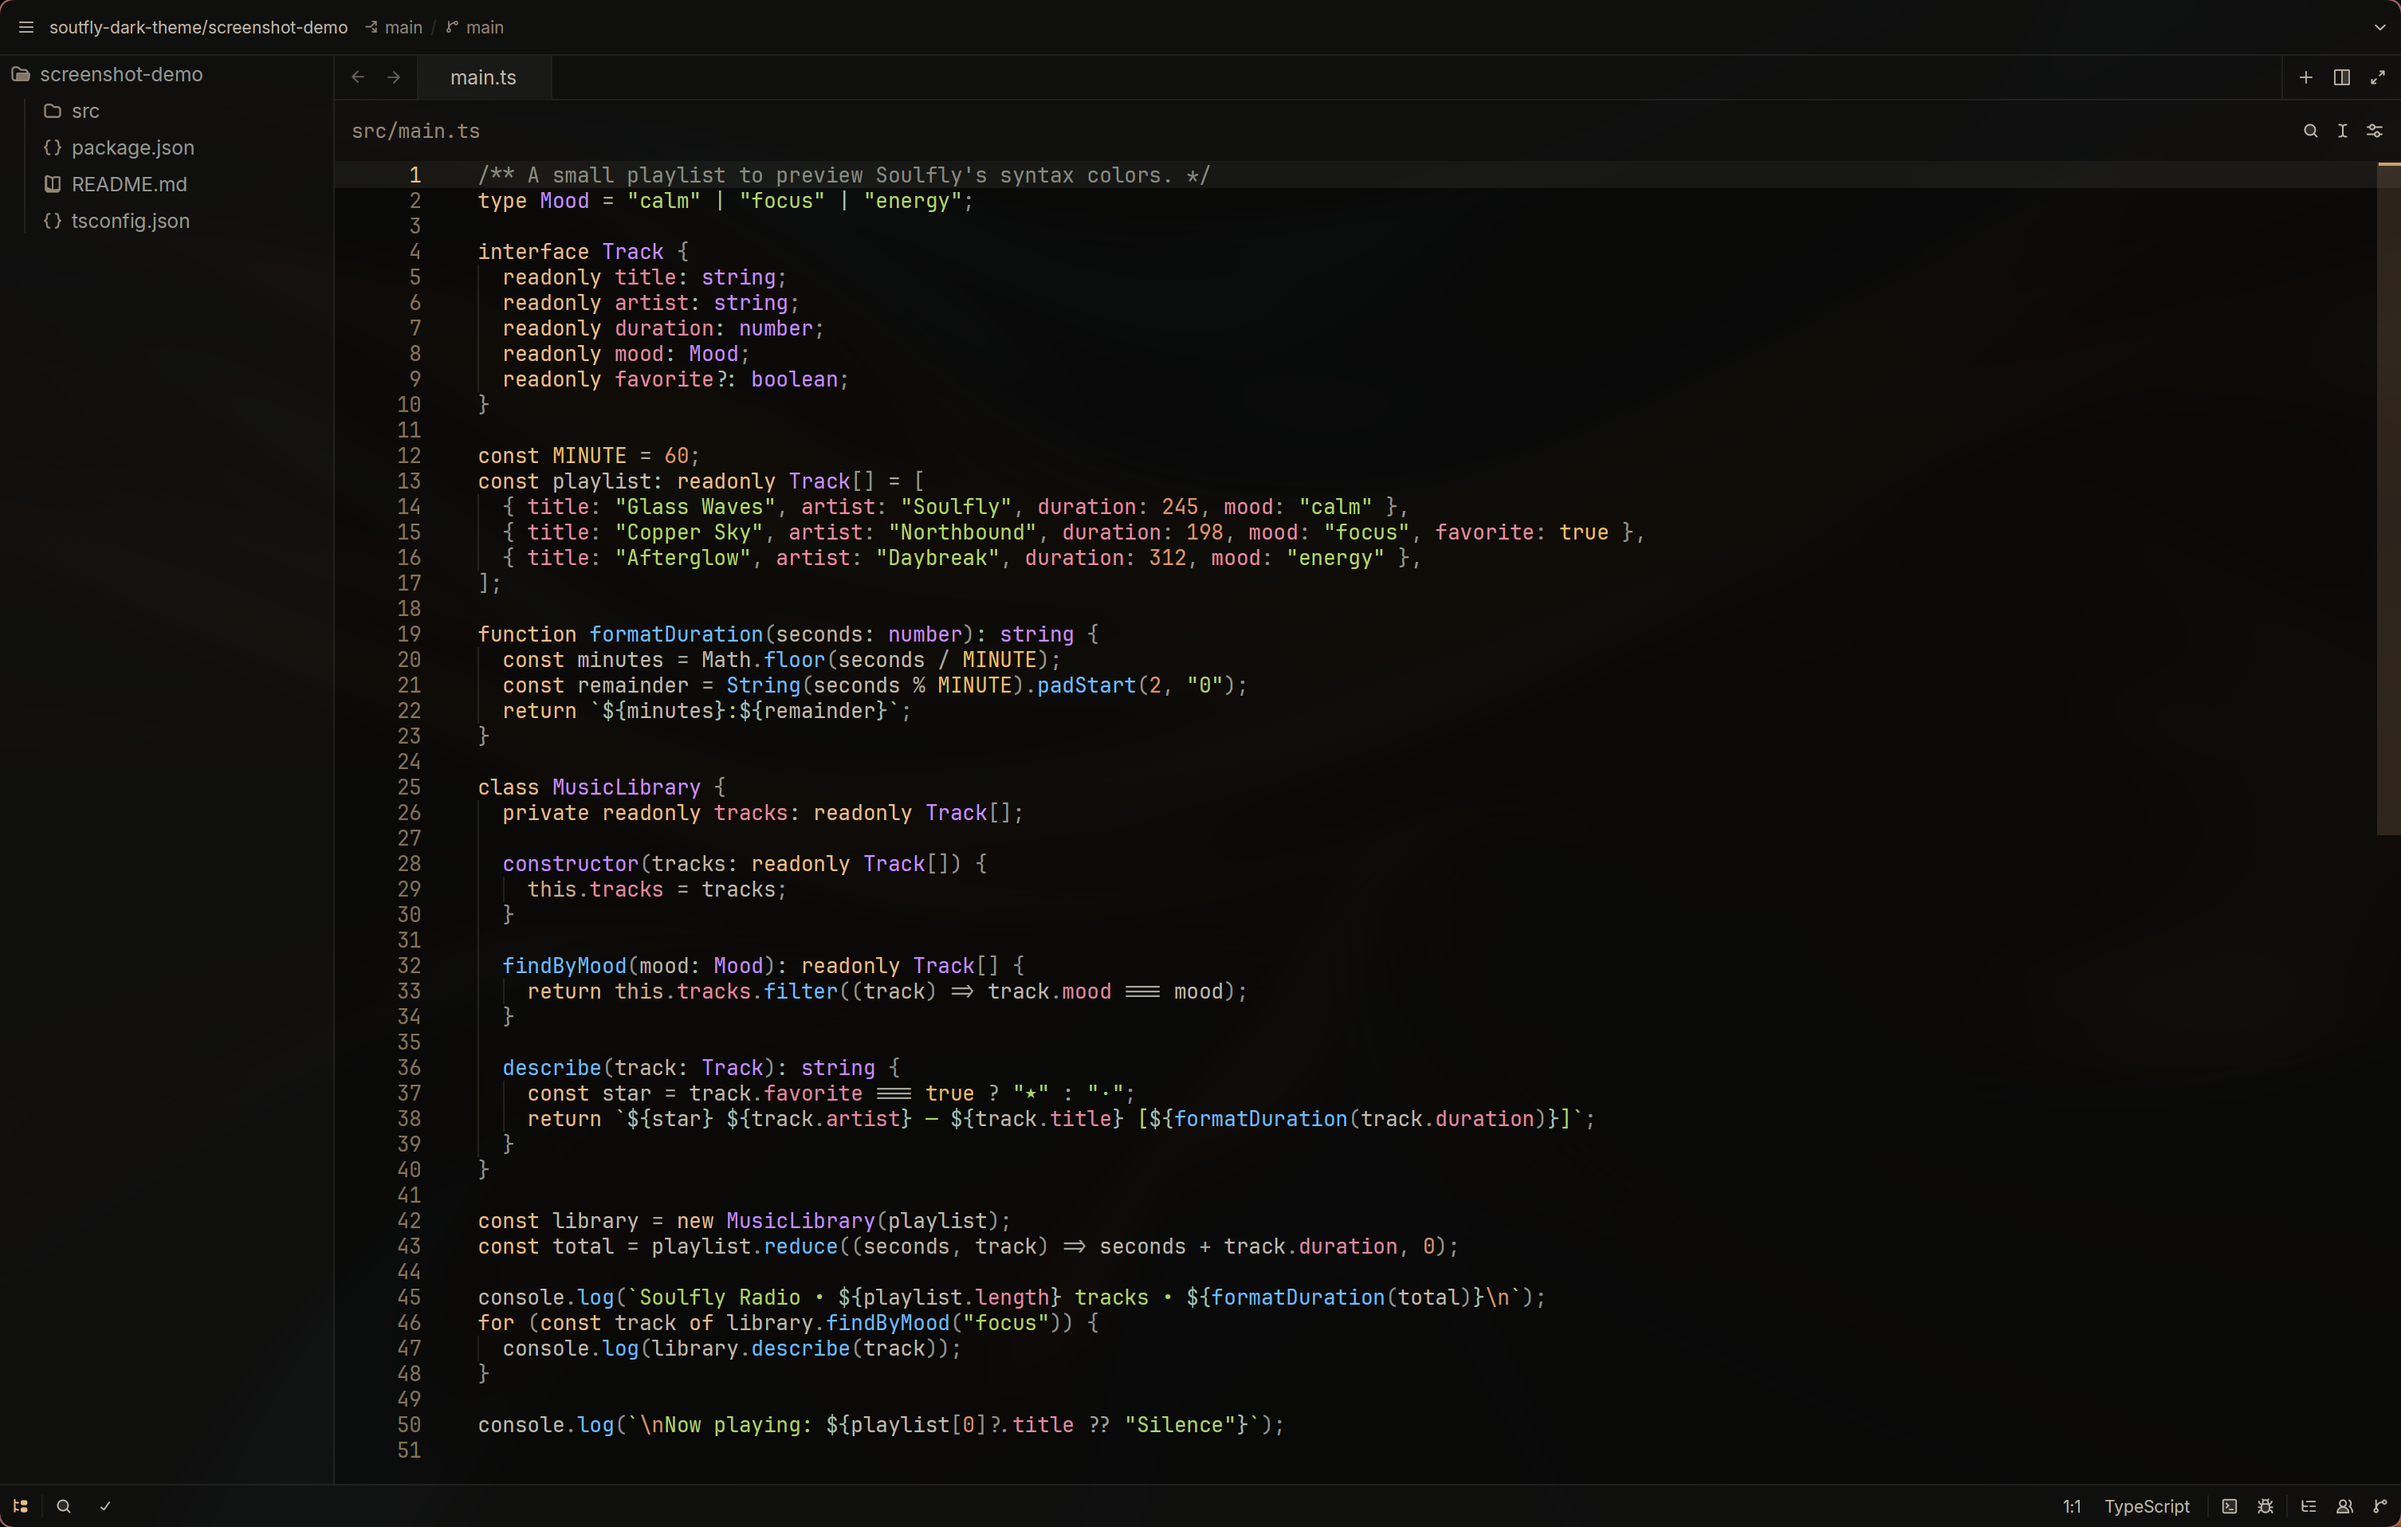
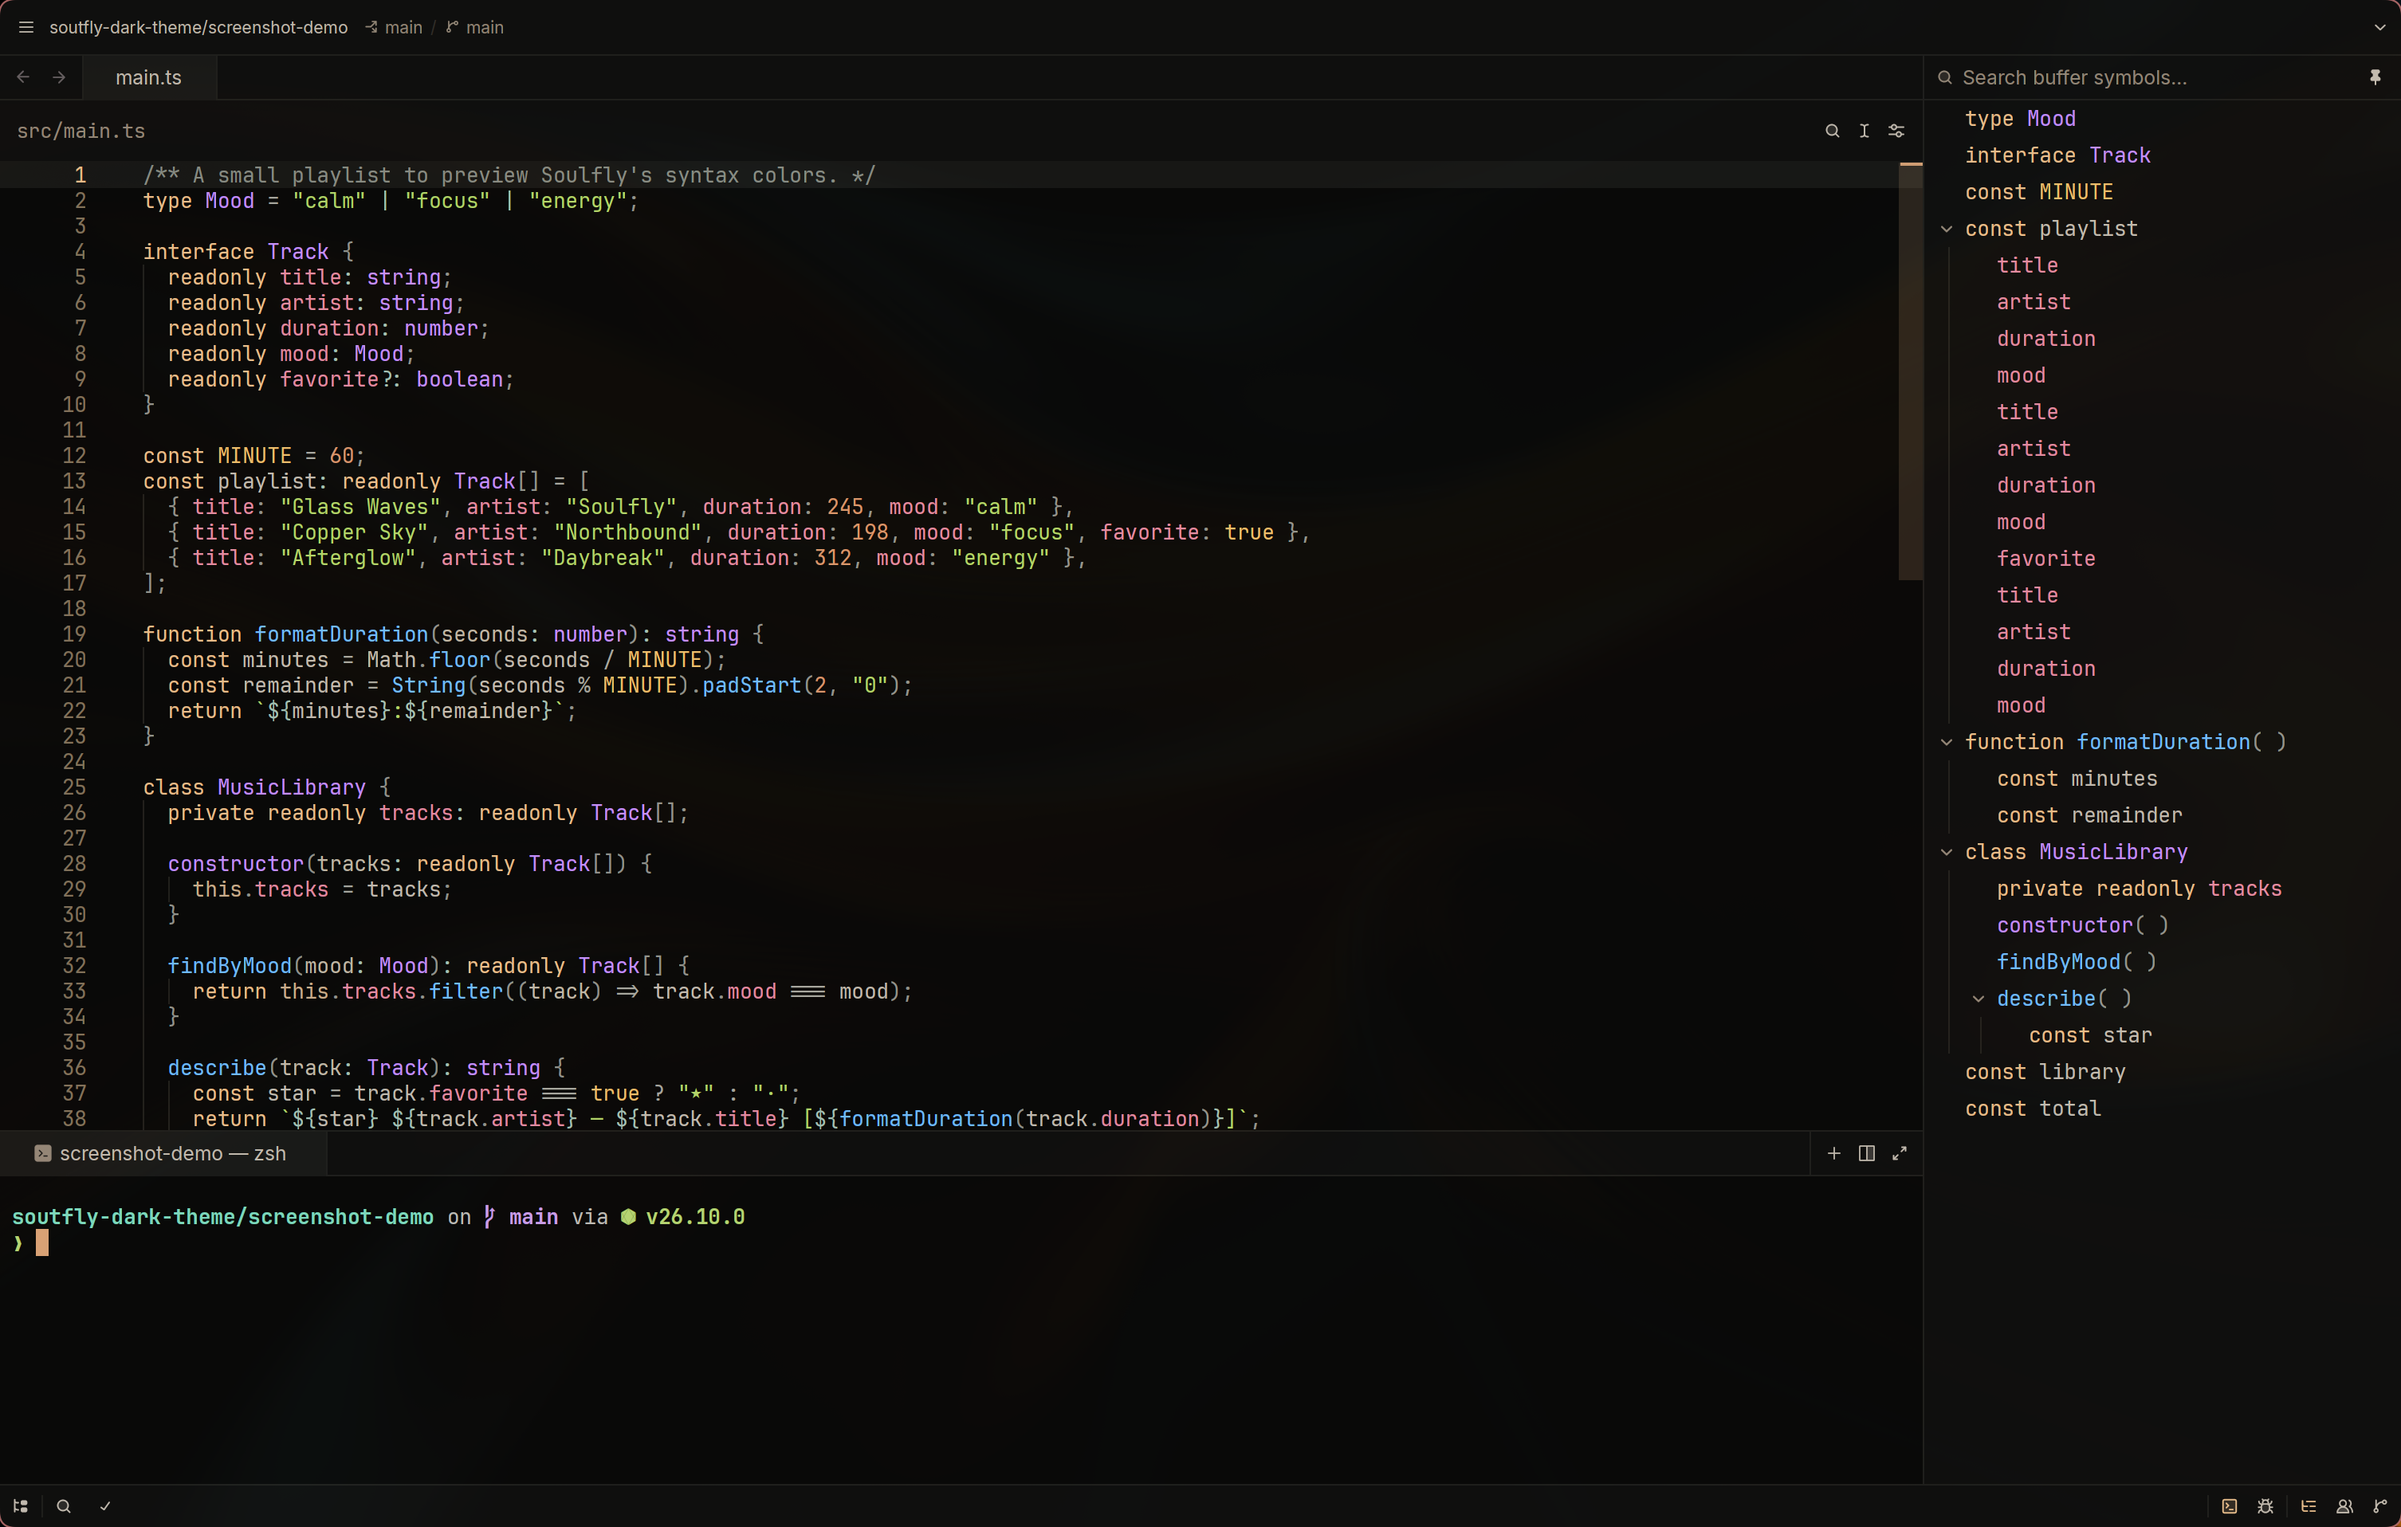
chore: release 1.0.0 with updated theme screenshot

diff --git a/PUBLISHING.md b/PUBLISHING.md
@@ -31,7 +31,7 @@ Follow the official [publishing guide](https://zed.dev/docs/extensions/publishin
    ```toml
    [soulfly-dark-theme]
    submodule = "extensions/soulfly-dark-theme"
-   version = "0.1.0"
+   version = "1.0.0"
    ```
 
 5. Run `pnpm sort-extensions` in the registry repository.

diff --git a/CHANGELOG.md b/CHANGELOG.md
@@ -1,5 +1,10 @@
 # Changelog
 
+## 1.0.0
+
+- First stable release of Soulfly Dark for Zed.
+- Updated the README screenshot to show the editor, outline, and terminal.
+
 ## 0.1.0
 
 - Initial standalone release of Soulfly Dark for Zed.
